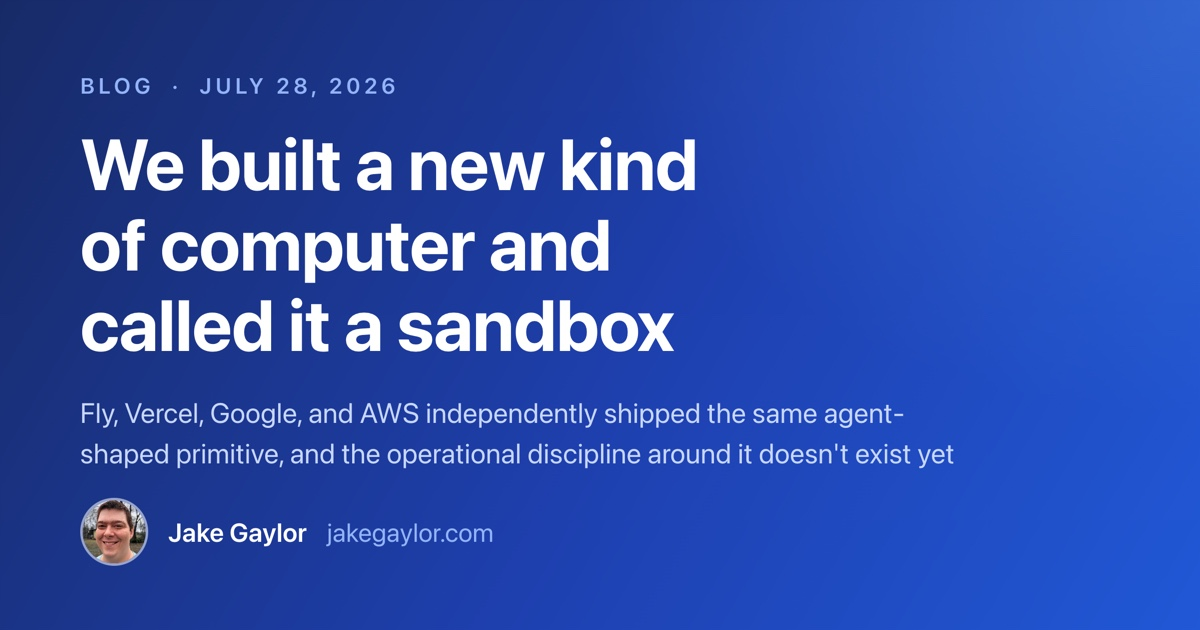
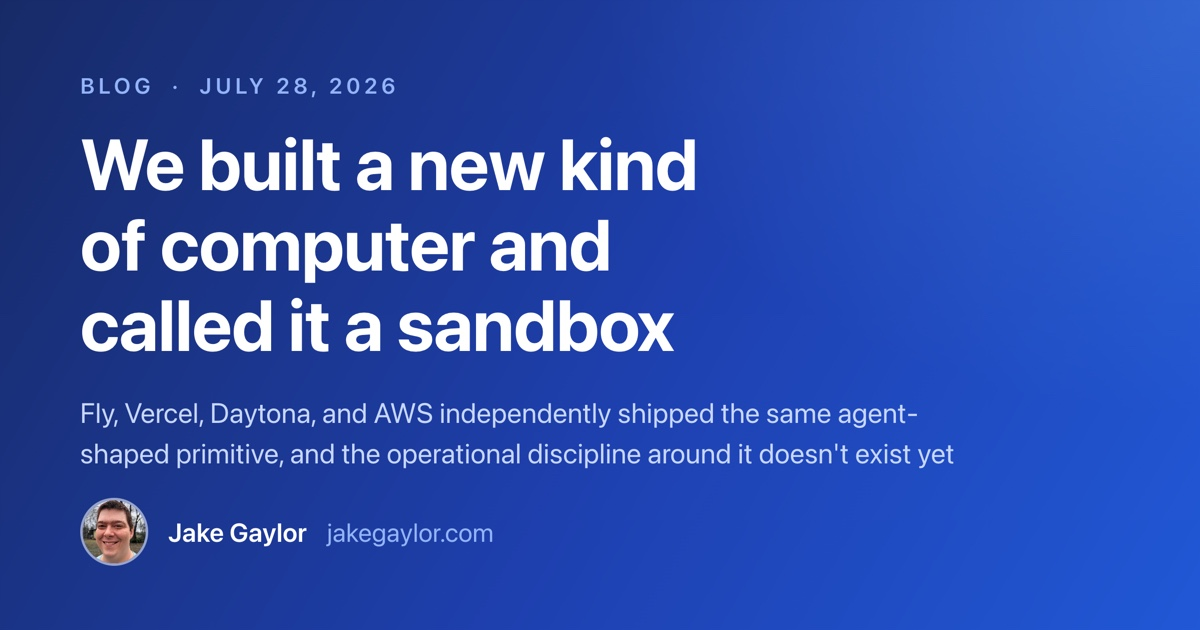
blog: swap Substrate for Daytona in the cold open lineup

Changed region(s): [[0.185, 0.6333, 0.7708, 0.6937]]

diff --git a/blog/posts/new-kind-of-computer.md b/blog/posts/new-kind-of-computer.md
@@ -3,7 +3,7 @@ layout: layouts/blog.html
 tags: ["posts"]
 title: "We built a new kind of computer and called it a sandbox"
 og_image: /images/og/new-kind-of-computer.jpg
-description: "Fly, Vercel, Google, and AWS independently shipped the same agent-shaped primitive, and the operational discipline around it doesn't exist yet"
+description: "Fly, Vercel, Daytona, and AWS independently shipped the same agent-shaped primitive, and the operational discipline around it doesn't exist yet"
 permalink: /blog/posts/new-kind-of-computer/
 date: 2026-07-28
 ---
@@ -12,10 +12,10 @@ Here are four product descriptions with the vendor names removed.
 
 * A persistent Linux computer that pauses when idle, checkpoints its whole filesystem in about 300ms, and wakes when a request hits its URL.
 * An execution layer for agents where sandboxes persist by default and the filesystem snapshots itself.
-* A control plane that packs about 250 stateful sessions onto 8 pods by freezing whichever ones go quiet.
+* A sandbox that spins up in under 90 milliseconds, stays around indefinitely for persistent agents, and resumes any workflow from a saved snapshot.
 * A managed microVM that suspends when idle and resumes with its RAM intact.
 
-Can you tell which one is Fly's Sprites, which is Vercel Sandbox, which is Google's [Agent Substrate](https://github.com/agent-substrate/substrate), and which is AWS Lambda MicroVMs? They're in that order. All four shipped within about eighteen months of each other, from teams that were not talking to each other, and the feature lists converged anyway. When that many vendors independently arrive at the same spec, it seems to me the spec is describing a primitive.
+Can you tell which one is Fly's Sprites, which is Vercel Sandbox, which is Daytona, and which is AWS Lambda MicroVMs? They're in that order. All four shipped within about eighteen months of each other, from teams that were not talking to each other, and the feature lists converged anyway. When that many vendors independently arrive at the same spec, it seems to me the spec is describing a primitive.
 
 The public conversation about these products is cold start benchmarks and per-vCPU pricing tables, which makes sense if the CPU time is a commodity. But the vCPUs aren't all the same, because the platforms they run on aren't the same. What you're actually buying is a suspendable, individually addressable, state-preserving computer that spends most of its life idle, and no container platform was ever pointed at that spec.
 
@@ -23,7 +23,7 @@ The public conversation about these products is cold start benchmarks and per-vC
 
 An agent session is a long-lived, mostly idle, stateful, individually addressable process running code nobody reviewed. A Pod is none of those things, and each mismatch shows up as a feature on the new primitive.
 
-Idle first. An agent spends most of its wall clock blocked, waiting on token generation, a tool call, or a human who wandered off. A Pod holds its full memory reservation through all of it. Substrate's whole design starts from that duty cycle, mapping a large set of actors onto a small pool of ready workers because agent sessions sit quiet most of the time, and 250 sessions on 8 pods is the multiplexing that falls out. [KubeMicroVM](https://github.com/codriverlabs/KubeMicroVM), a Kubernetes operator that wraps Lambda MicroVMs in CRDs, takes the other route and pushes the idle cost down to AWS with an idle timeout on the resource itself.
+Idle first. An agent spends most of its wall clock blocked, waiting on token generation, a tool call, or a human who wandered off. A Pod holds its full memory reservation through all of it. Google's experimental [Agent Substrate](https://github.com/agent-substrate/substrate) starts its whole design from that duty cycle, mapping a large set of actors onto a small pool of ready workers because agent sessions sit quiet most of the time, and its demo multiplexes about 250 stateful sessions across 8 pods. [KubeMicroVM](https://github.com/codriverlabs/KubeMicroVM), a Kubernetes operator that wraps Lambda MicroVMs in CRDs, takes the other route and pushes the idle cost down to AWS with an idle timeout on the resource itself.
 
 The state that matters in one of these sessions is the process. Terminal buffers, shell history, a half-written file the agent plans to come back to. You can't drain that onto another node the way you reschedule a stateless replica, so everyone landed on checkpoint and restore of the live workload. Substrate drives runsc checkpoints under gVisor. The microVM camp snapshots the whole machine.
 
